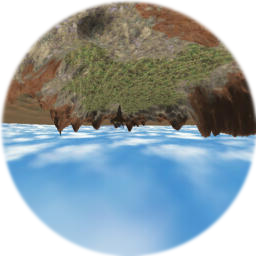
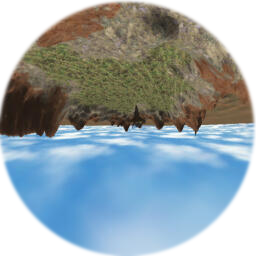
Almost working... but not quite

diff --git a/parabolik/parabolik.c b/parabolik/parabolik.c
@@ -13,6 +13,8 @@
 
 #include "vector.h"
 
+#define EYE_POS 0.0, 0.0, -4.5
+
 #ifdef DREAMCAST_KOS
 extern uint8 romdisk[];
 
@@ -348,14 +350,17 @@ int main(int argc, char* argv[])
 }
 #else /* DREAMCAST_KOS.  */
 
+static matrix_t camera __attribute__((aligned(32)));
+static matrix_t invcamera __attribute__((aligned(32)));
+static matrix_t transform __attribute__((aligned(32)));
 static matrix_t rotate __attribute__((aligned(32)));
-static matrix_t unrotate __attribute__((aligned(32)));
 
 static void
-fake_light (float vertex[3], float normal[3])
+fake_light (float vertex[3], float normal[3], int front)
 {
-  float light[3] = { 0.2357, 0.2357, -0.9428 };
-  float eye[3] = { 0.0, 0.0, -4.5 };
+  float light[3] = { 0.2357, 0.2357, 0.9428 };
+  float eye[3] = { EYE_POS };
+  float vertex4[4], x_vertex[4], x_normal[4];
   float eye_to_vertex[3], reflection[4], tmp[3];
   float eye_norm_dot;
   float incidence, normalized_normal[3];
@@ -365,8 +370,11 @@ fake_light (float vertex[3], float normal[3])
   float x_b, y_b, z_b;
   
   vec_normalize (normalized_normal, normal);
-  
-  incidence = vec_dot (&light[0], &normalized_normal[0]);
+
+  /* Find the normal in eye space.  */
+  vec_transform (x_normal, (float *) &rotate[0][0], normalized_normal);
+
+  incidence = vec_dot (&light[0], &x_normal[0]);
   
   if (incidence < 0)
     incidence = 0;
@@ -377,10 +385,15 @@ fake_light (float vertex[3], float normal[3])
   
   glColor4ub (r, g, b, 0);
   
-  vec_sub (eye_to_vertex, vertex, eye);
+  /* We need the vertex in eye space.  This duplicates work!  */
+  memcpy (vertex4, vertex, sizeof (float) * 3);
+  vertex4[3] = 0.0;
+  vec_transform (x_vertex, (float *) &transform[0][0], vertex4);
+  vec_sub (eye_to_vertex, x_vertex, eye);
   vec_normalize (eye_to_vertex, eye_to_vertex);
-  eye_norm_dot = vec_dot (eye_to_vertex, normalized_normal);
-  vec_scale (tmp, normalized_normal, eye_norm_dot * 2.0);
+  
+  eye_norm_dot = vec_dot (eye_to_vertex, x_normal);
+  vec_scale (tmp, x_normal, -eye_norm_dot * 2.0);
   vec_add (reflection, eye_to_vertex, tmp);
   /*x = reflection[0];
   y = reflection[1];
@@ -389,8 +402,8 @@ fake_light (float vertex[3], float normal[3])
   mat_load ((matrix_t *) &unrotate[0][0]);
   mat_trans_nodiv (x, y, z, w);
   glKosMatrixDirty ();*/
-  reflection[3] = 1.0;
-  vec_transform (unrot, (float *) &unrotate[0][0], reflection);
+  reflection[3] = 0.0;
+  vec_transform (unrot, (float *) &invcamera[0][0], reflection);
   x = unrot[0];
   y = unrot[1];
   z = unrot[2];
@@ -406,41 +419,38 @@ fake_light (float vertex[3], float normal[3])
     
     for both, calculate lhs, then divide x, y by z.  */
   
-  x_f = 0.0 - x;
-  y_f = 0.0 - y;
-  z_f = -1.0 - z;
-  
-  if (z_f != 0.0)
+  if (front)
     {
-      x_f = 0.5 + 0.5 * (x_f / z_f);
-      y_f = 0.5 + 0.5 * (y_f / z_f);
+      x_f = 0.0 - x;
+      y_f = 0.0 - y;
+      z_f = -1.0 - z;
+
+      if (z_f != 0.0)
+	{
+	  x_f = 0.5 + 0.5 * (x_f / z_f);
+	  y_f = 0.5 + 0.5 * (y_f / z_f);
+	}
+
+      glTexCoord2f (x_f, y_f);
     }
-  
-  x_b = 0.0 - x;
-  y_b = 0.0 - y;
-  z_b = -1.0 - z;
-  
-  if (z_b != 0.0)
+  else
     {
-      x_b = 0.5 + 0.5 * (x_b / z_b);
-      y_b = 0.5 + 0.5 * (y_b / z_b);
+      x_b = 0.0 - x;
+      y_b = 0.0 - y;
+      z_b = 1.0 - z;
+
+      if (z_b != 0.0)
+	{
+	  x_b = 0.5 + 0.5 * (x_b / z_b);
+	  y_b = 0.5 - 0.5 * (y_b / z_b);
+	}
+
+      glTexCoord2f (x_b, y_b);
     }
-  
-  if (x_f < 0.0)
-    x_f = 0.0;
-  if (y_f < 0.0)
-    y_f = 0.0f;
-  if (x_f > 1.0)
-    x_f = 1.0;
-  if (y_f > 1.0)
-    y_f = 1.0;
-  
-  //printf ("%f %f\n", x_f, y_f);
-  glTexCoord2f (x_f, y_f);
 }
 
 void
-render_torus (float outer, float inner)
+render_torus (float outer, float inner, int front)
 {
   int major;
   const int minor_steps = 20, major_steps = 40;
@@ -471,10 +481,10 @@ render_torus (float outer, float inner)
 	     
 	     y is zero, so the corresponding terms disappear.  */
 
-	  min[1][0] = fcos (major_ang);
-	  min[0][0] = min[1][0] * orig_min_x + maj_x;
-	  min[1][1] = fsin (major_ang);
-	  min[0][1] = min[1][1] * orig_min_x + maj_y;
+	  min[1][0] = fcos (major_ang) * orig_min_x;
+	  min[0][0] = min[1][0] + maj_x;
+	  min[1][1] = fsin (major_ang) * orig_min_x;
+	  min[0][1] = min[1][1] + maj_y;
 	  
 	  if (major == 0)
 	    {
@@ -496,39 +506,41 @@ render_torus (float outer, float inner)
 	      glBegin (GL_TRIANGLE_STRIP);
 	      
 	      //glColor4ub (255, 255, 255, 0);
-	      fake_light (prev_row[minor - 1][0], prev_row[minor - 1][1]);
+	      fake_light (prev_row[minor - 1][0], prev_row[minor - 1][1],
+			  front);
 	      glVertex3fv ((GLfloat *) &prev_row[minor - 1][0]);
 	      
 	      //glColor4ub (255, 0, 0, 0);
-	      fake_light (prev_row[minor][0], prev_row[minor][1]);
+	      fake_light (prev_row[minor][0], prev_row[minor][1], front);
 	      glVertex3fv ((GLfloat *) &prev_row[minor][0]);
 	      
 	      if (major == major_steps)
 	        {
 		  //glColor4ub (255, 255, 0, 0);
-		  fake_light (first_row[minor - 1][0], first_row[minor - 1][1]);
+		  fake_light (first_row[minor - 1][0], first_row[minor - 1][1],
+			      front);
 		  glVertex3fv ((GLfloat *) &first_row[minor - 1][0]);
 		  
 		  //glColor4ub (0, 255, 0, 0);
 		  fake_light (first_row[minor_wrapped][0],
-			      first_row[minor_wrapped][1]);
+			      first_row[minor_wrapped][1], front);
 		  glVertex3fv ((GLfloat *) &first_row[minor_wrapped][0]);
 		}
 	      else
 	        {
 		  //glColor4ub (255, 255, 0, 0);
-		  fake_light (last[0], last[1]);
+		  fake_light (last[0], last[1], front);
 		  glVertex3fv (&last[0][0]);
 
 		  //glColor4ub (0, 255, 0, 0);
 		  if (minor == minor_steps)
 		    {
-		      fake_light (first[0], first[1]);
+		      fake_light (first[0], first[1], front);
 	              glVertex3fv (&first[0][0]);
 		    }
 		  else
 		    {
-		      fake_light (min[0], min[1]);
+		      fake_light (min[0], min[1], front);
 		      glVertex3fv (&min[0][0]);
 		    }
 		}
@@ -547,6 +559,23 @@ render_torus (float outer, float inner)
     }
 }
 
+static void
+init_pvr (void)
+{
+  pvr_init_params_t params = {
+    { PVR_BINSIZE_16,	/* Opaque polygons.  */
+      PVR_BINSIZE_0,	/* Opaque modifiers.  */
+      PVR_BINSIZE_0,	/* Translucent polygons.  */
+      PVR_BINSIZE_0,	/* Translucent modifiers.  */
+      PVR_BINSIZE_16 },	/* Punch-thrus.  */
+    512 * 1024,		/* Vertex buffer size 512K.  */
+    0,			/* No DMA.  */
+    0			/* No FSAA.  */
+  };
+  
+  pvr_init (&params);
+}
+
 int
 main (int argc, char* argv[])
 {
@@ -555,6 +584,7 @@ main (int argc, char* argv[])
   kos_img_t front_txr, back_txr;
   pvr_ptr_t texaddr;
   GLuint texture[2];
+  int i;
   
   cable_type = vid_check_cable ();
   
@@ -563,7 +593,7 @@ main (int argc, char* argv[])
   else
     vid_init (DM_640x480_PAL_IL, PM_RGB565);
   
-  pvr_init_defaults ();
+  init_pvr ();
 
   glKosInit ();
   
@@ -607,53 +637,101 @@ main (int argc, char* argv[])
 
   glMatrixMode (GL_MODELVIEW);
   glLoadIdentity ();
-  gluLookAt (0.0,   0.0,  -4.5,		/* Eye position.  */
+  gluLookAt (EYE_POS,			/* Eye position.  */
 	     0.0,   0.0,   0.0,		/* Centre.  */
 	     0.0,   1.0,   0.0);	/* Up.  */
   
+  glGetFloatv (GL_MODELVIEW_MATRIX, &camera[0][0]);
+  
+  invcamera[0][0] = camera[0][0];
+  invcamera[0][1] = camera[1][0];
+  invcamera[0][2] = camera[2][0];
+  invcamera[0][3] = 0.0;
+
+  invcamera[1][0] = camera[0][1];
+  invcamera[1][1] = camera[1][1];
+  invcamera[1][2] = camera[2][1];
+  invcamera[1][3] = 0.0;
+
+  invcamera[2][0] = camera[0][2];
+  invcamera[2][1] = camera[1][2];
+  invcamera[2][2] = camera[2][2];
+  invcamera[2][3] = 0.0;
+
+  invcamera[3][0] = 0.0;
+  invcamera[3][1] = 0.0;
+  invcamera[3][2] = 0.0;
+  invcamera[3][3] = 1.0;
+  
+  printf ("Inverted camera matrix:\n");
+  for (i = 0; i < 4; i++)
+    {
+      printf ("[ %f %f %f %f ]\n", invcamera[0][i], invcamera[1][i],
+	      invcamera[2][i], invcamera[3][i]);
+    }
   
   while (!quit)
     {
-      glBindTexture (GL_TEXTURE_2D, texture[0]);
-
       glKosBeginFrame ();
       
       glPushMatrix ();
       
+      #if 1
       glRotatef (rot1, 0.0, 1.0, 0.0);
       rot1 += 0.7;
       glRotatef (rot2, 1.0, 0.0, 0.0);
       rot2 += 0.29;
+      #else
+      glRotatef (rot1, 0.0, 0.0, 1.0);
+      rot1 += 0.7;
+      #endif
       
-      glGetFloatv (GL_MODELVIEW_MATRIX, &rotate[0][0]);
+      if (rot1 >= 360)
+        rot1 -= 360;
+
+      if (rot2 >= 360)
+        rot2 -= 360;
       
-      /* Transpose (rotation part only).  */
-      unrotate[0][0] = rotate[0][0];
-      unrotate[0][1] = rotate[1][0];
-      unrotate[0][2] = rotate[2][0];
-      unrotate[0][3] = 0.0;
+      glGetFloatv (GL_MODELVIEW_MATRIX, &transform[0][0]);
       
-      unrotate[1][0] = rotate[0][1];
-      unrotate[1][1] = rotate[1][1];
-      unrotate[1][2] = rotate[2][1];
-      unrotate[1][3] = 0.0;
+      /* Rotation part of transformation.  */
+      rotate[0][0] = transform[0][0];
+      rotate[1][0] = transform[1][0];
+      rotate[2][0] = transform[2][0];
+      rotate[3][0] = 0.0;
       
-      unrotate[2][0] = rotate[0][2];
-      unrotate[2][1] = rotate[1][2];
-      unrotate[2][2] = rotate[2][2];
-      unrotate[2][3] = 0.0;
+      rotate[0][1] = transform[0][1];
+      rotate[1][1] = transform[1][1];
+      rotate[2][1] = transform[2][1];
+      rotate[3][1] = 0.0;
       
-      unrotate[3][0] = 0.0;
-      unrotate[3][1] = 0.0;
-      unrotate[3][2] = 0.0;
-      unrotate[3][3] = 1.0;
+      rotate[0][2] = transform[0][2];
+      rotate[1][2] = transform[1][2];
+      rotate[2][2] = transform[2][2];
+      rotate[3][2] = 0.0;
+      
+      rotate[0][3] = 0.0;
+      rotate[1][3] = 0.0;
+      rotate[2][3] = 0.0;
+      rotate[3][3] = 1.0;
       
       MAPLE_FOREACH_BEGIN (MAPLE_FUNC_CONTROLLER, cont_state_t, st)
         if (st->buttons & CONT_START)
 	  quit = 1;
       MAPLE_FOREACH_END ()
       
-      render_torus (1.0, 0.6);
+      /* Render front.  */
+      glBindTexture (GL_TEXTURE_2D, texture[0]);
+      glTexEnvi (GL_TEXTURE_2D, GL_TEXTURE_ENV_MODE, GL_MODULATE);
+      render_torus (1.0, 0.6, 1);
+      
+      glKosFinishList ();
+
+      /* Render back.  */
+      glBindTexture (GL_TEXTURE_2D, texture[1]);
+      glTexEnvi (GL_TEXTURE_2D, GL_TEXTURE_ENV_MODE, GL_MODULATE);
+      glBlendFunc (GL_SRC_ALPHA, GL_ONE_MINUS_SRC_ALPHA);
+      render_torus (1.0, 0.6, 0);
       
       glPopMatrix ();
       

diff --git a/parabolik/vector.h b/parabolik/vector.h
@@ -70,13 +70,21 @@ vec_sub (FLOAT_TYPE *dst, FLOAT_TYPE *a, FLOAT_TYPE *b)
 static __inline__ void
 vec_transform (FLOAT_TYPE *dst, FLOAT_TYPE *mat, FLOAT_TYPE *src)
 {
-  dst[0] = mat[0] * src[0] + mat[1] * src[1] + mat[2] * src[2]
-           + mat[3] * src[3];
-  dst[1] = mat[4] * src[0] + mat[5] * src[1] + mat[6] * src[2]
-	   + mat[7] * src[3];
-  dst[2] = mat[8] * src[0] + mat[9] * src[1] + mat[10] * src[2]
-           + mat[11] * src[3];
-  dst[3] = mat[12] * src[0] + mat[13] * src[1] + mat[14] * src[2]
+  dst[0] = mat[0] * src[0]
+           + mat[4] * src[1]
+	   + mat[8] * src[2] 
+	   + mat[12] * src[3];
+  dst[1] = mat[1] * src[0]
+	   + mat[5] * src[1]
+	   + mat[9] * src[2]
+	   + mat[13] * src[3];
+  dst[2] = mat[2] * src[0]
+	   + mat[6] * src[1]
+	   + mat[10] * src[2]
+           + mat[14] * src[3];
+  dst[3] = mat[3] * src[0]
+	   + mat[7] * src[1]
+	   + mat[11] * src[2]
            + mat[15] * src[3];
 }
 
